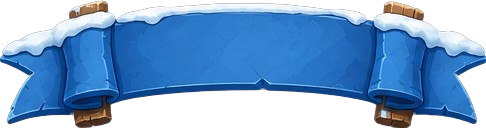
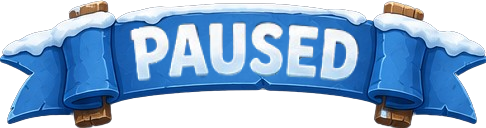
PauseScreen & fix weiße streifen
Took 1 hour 25 minutes

Changed region(s): [[0.2469, 0.1562, 0.7407, 0.6562]]

diff --git a/assets/map/tileset.tsx b/assets/map/tileset.tsx
@@ -1,5 +1,5 @@
 <?xml version="1.0" encoding="UTF-8"?>
-<tileset version="1.10" tiledversion="1.12.1" name="tileset" tilewidth="64" tileheight="64" spacing="1" tilecount="56" columns="8">
+<tileset version="1.10" tiledversion="1.12.1" name="tileset" tilewidth="64" tileheight="64" spacing="1"  margin="1" tilecount="56" columns="8">
  <image source="tileset.png" width="519" height="512"/>
  <tile id="0">
   <properties>

diff --git a/core/src/main/java/info/pengutd/game/PauseOverlay.java b/core/src/main/java/info/pengutd/game/PauseOverlay.java
@@ -32,17 +32,32 @@ public class PauseOverlay implements Disposable {
 
         Table background = new Table();
         background.setFillParent(true);
-        background.setBackground(new TextureRegionDrawable(Assets.findRegionOrMissing(atlas, "background")).tint(new Color(1, 1, 1, 0.2f)));
+        background.setBackground(new TextureRegionDrawable(Assets.findRegionOrMissing(
+            PenguTD.getInstance().getAssetManager().get(Assets.TOWER_SELECTION_ATLAS), "background"))
+            .tint(new Color(1, 1, 1, 0.6f)));
         uiStage.addActor(background);
 
         Table content = new Table();
         content.setBackground(new TextureRegionDrawable(Assets.findRegionOrMissing(atlas, "background_banner")));
 
         content.setSize(300, 350);
-        content.setPosition((800 - 350) / 2f, (480 - 350) / 2f); // nicht ganz mitte aber sieht gut aus wo es ist
+        content.setPosition((800 - 300 - 50) / 2f, (480 - 350) / 2f); // 50 nach links → nicht ganz mitte aber sieht gut aus wo es ist
         uiStage.addActor(content);
 
         Image title = new Image(Assets.findRegionOrMissing(atlas, "title_banner"));
+        title.setSize(400, 75);
+        title.setPosition((800 - 400 - 50) / 2f, 370);
+        uiStage.addActor(title);
+
+        Image resumeButton = new Image(Assets.findRegionOrMissing(atlas, "resume_button"));
+        content.add(resumeButton).size(200, 60).pad(10).row();
+
+        Image settingsButton = new Image(Assets.findRegionOrMissing(atlas, "settings_button"));
+        content.add(settingsButton).size(200, 60).pad(10).row();
+
+        Image mainMenuButton = new Image(Assets.findRegionOrMissing(atlas, "main_menu_button"));
+        content.add(mainMenuButton).size(200, 60).pad(10).row();
+
 
         uiStage.addListener(new InputListener() {
             @Override

diff --git a/core/src/main/java/info/pengutd/game/World.java b/core/src/main/java/info/pengutd/game/World.java
@@ -3,12 +3,14 @@ package info.pengutd.game;
 import com.badlogic.gdx.*;
 import com.badlogic.gdx.graphics.Color;
 import com.badlogic.gdx.graphics.OrthographicCamera;
+import com.badlogic.gdx.graphics.Texture;
 import com.badlogic.gdx.graphics.g2d.SpriteBatch;
 import com.badlogic.gdx.graphics.g2d.TextureRegion;
 import com.badlogic.gdx.maps.MapLayer;
 import com.badlogic.gdx.maps.MapObject;
 import com.badlogic.gdx.maps.objects.TextureMapObject;
 import com.badlogic.gdx.maps.tiled.TiledMap;
+import com.badlogic.gdx.maps.tiled.TiledMapTile;
 import com.badlogic.gdx.maps.tiled.TiledMapTileLayer;
 import com.badlogic.gdx.maps.tiled.TmxMapLoader;
 import com.badlogic.gdx.maps.tiled.renderers.OrthogonalTiledMapRenderer;
@@ -90,6 +92,11 @@ public class World implements Screen, InputProcessor, JsonSerializable {
             map = new TmxMapLoader().load("map/" + mapName + ".tmx");
             mapRenderer = new OrthogonalTiledMapRenderer(map);
 
+            for (TiledMapTile tile : map.getTileSets().getTileSet(0)) {
+                Texture texture = tile.getTextureRegion().getTexture();
+                texture.setFilter(Texture.TextureFilter.Nearest, Texture.TextureFilter.Nearest);
+            }
+
             mapWidth = map.getProperties().get("width", Integer.class);
             mapHeight = map.getProperties().get("height", Integer.class);
             tileWidth = map.getProperties().get("tilewidth", Integer.class);
@@ -101,7 +108,6 @@ public class World implements Screen, InputProcessor, JsonSerializable {
             enemies.add(new WarriorEnemy(1, this, nextEntityId++));
 
             towers.add(new SnowballTower(this, new Vector2(200, 300)));
-
         }
         towerSelection = new TowerSelection(this);
         pauseOverlay = new PauseOverlay(this);
@@ -123,10 +129,20 @@ public class World implements Screen, InputProcessor, JsonSerializable {
 
     @Override
     public void render(float delta) {
+        updateCamera();
         if (!paused) {
             updateLogic(delta);
         }
         updateGraphics(delta);
+    }
+
+    private void updateCamera() {
+        OrthographicCamera camera = (OrthographicCamera) viewport.getCamera();
+
+        camera.position.x = Math.round(camera.position.x);
+        camera.position.y = Math.round(camera.position.y);
+
+        camera.update();
     }
 
     private void updateGraphics(float delta) {